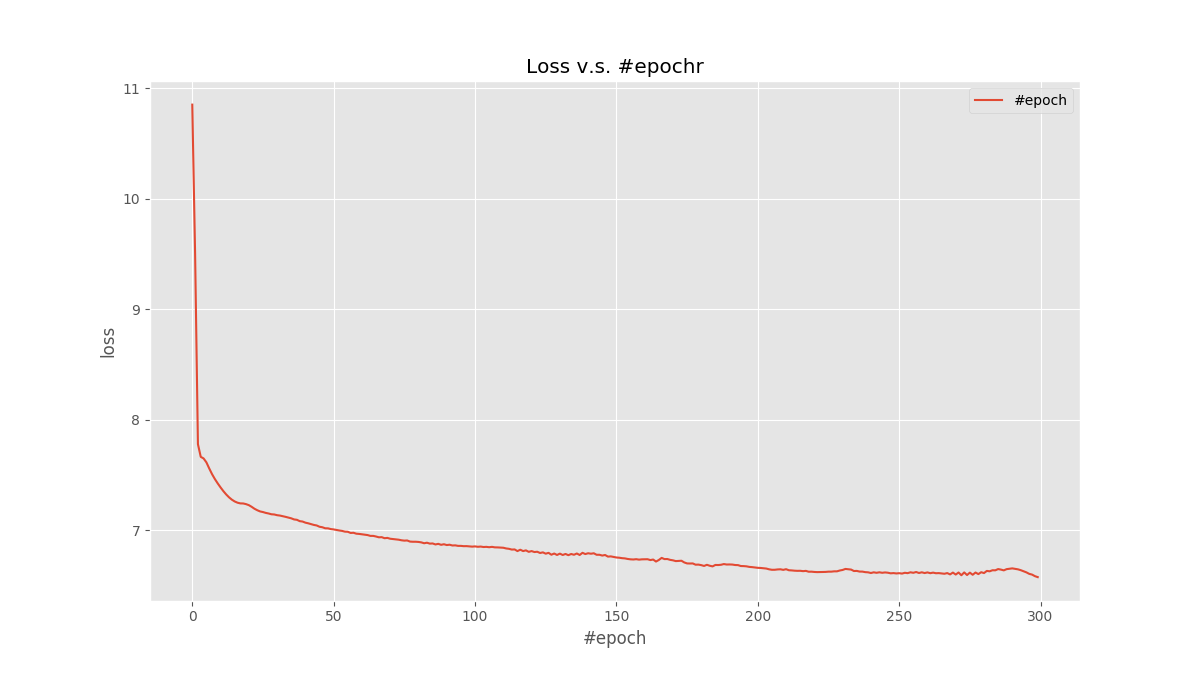
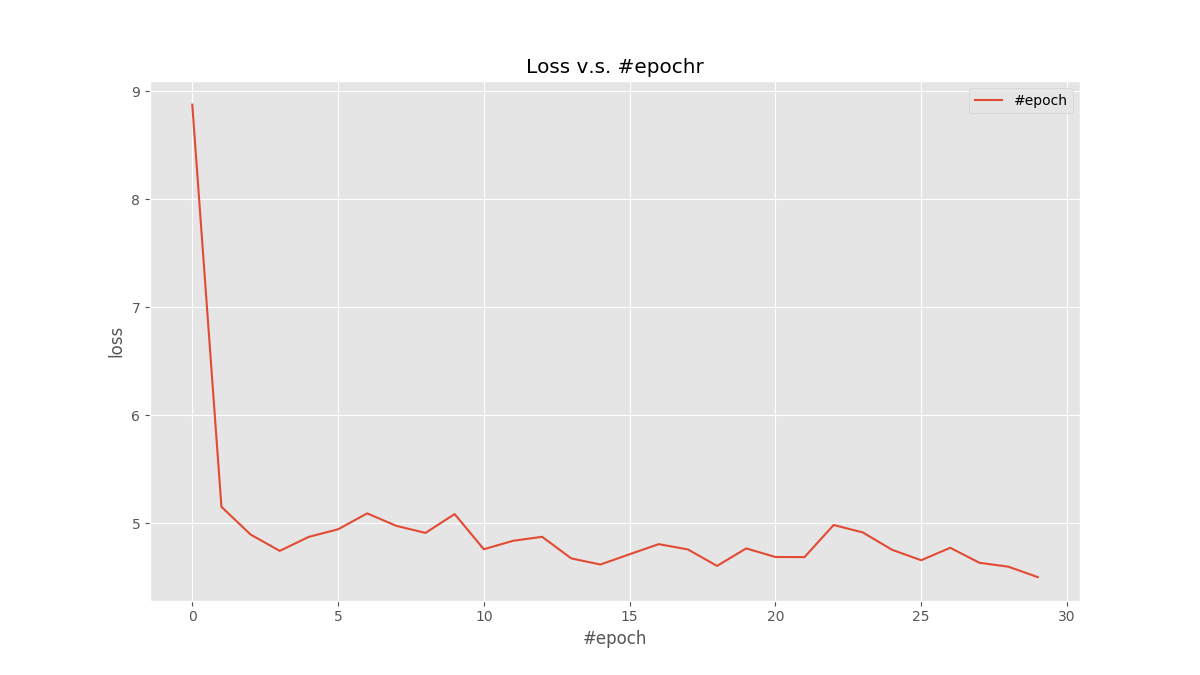
with rbm pretraining seems work

diff --git a/rbm.py b/rbm.py
@@ -1,0 +1,185 @@
+"""
+PyTorch implementation of all (Bernoulli, Gaussian hid, Gaussian vis+hid) kinds of RBMs.
+
+(C) Kai Xu
+University of Edinburgh, 2017
+"""
+
+
+import torch
+import torch.nn.functional as F
+
+
+class RBMBase:
+
+    def __init__(self, vis_num, hid_num):
+        """
+        Initialization for base RBM.
+        """
+        
+        self.vis_num = vis_num
+        self.hid_num = hid_num
+
+        # Dictionary for storing parameters
+        self.params = dict()
+
+        self.w = torch.randn(vis_num, hid_num) * 0.1    # weight matrix
+        self.a = torch.zeros(vis_num) / vis_num         # bias for visiable units
+        self.b = torch.zeros(hid_num)                   # bias for hidden units
+
+        # Corresponding momentums; _v means velocity of
+        self.w_v = torch.zeros(vis_num, hid_num)
+        self.a_v = torch.zeros(vis_num)
+        self.b_v = torch.zeros(hid_num)
+
+        if torch.cuda.is_available():
+
+            gpu_id = torch.cuda.current_device()
+
+            self.w = self.w.cuda(gpu_id)
+            self.a = self.a.cuda(gpu_id)
+            self.b = self.b.cuda(gpu_id)
+            self.w_v = self.w_v.cuda(gpu_id)
+            self.a_v = self.a_v.cuda(gpu_id)
+            self.b_v = self.b_v.cuda(gpu_id)
+
+            self.has_gpu = True
+            self.gpu_id = gpu_id
+
+        else:
+
+            self.has_gpu = False
+            
+    def p_h_given_v(self, v):
+        """
+        Compute probability of hidden units given visible units.
+        """
+
+        raise NotImplementedError()
+
+    def sample_h_given_v(self, v):
+        """
+        Sample hidden units given visible units.
+        """
+
+        raise NotImplementedError()
+
+    def p_v_given_h(self, h):
+        """
+        Compute probability of visible units given hidden units.
+        """
+
+        raise NotImplementedError()
+
+    def cd(self, v_data, k, eta, alpha, lam):
+        """
+        Perform contrastive divergence with k stpes, i.e. CD_k.
+
+        @input
+
+            v_data: visible data
+                 k: MCMC step number
+               eta: learning rate
+             alpha: momentum coefficient
+               lam: weight decay rate
+
+        @return
+
+            error: reconstruction error
+        """
+        if self.has_gpu:
+            v_data = v_data.cuda(self.gpu_id)
+
+        # Positive phase
+        h_pos, h_prob_pos = self.sample_h_given_v(v_data)
+        
+        # Negative phase
+        h_neg = h_pos.clone()
+
+        for _ in range(k):
+
+            v_prob_neg = self.p_v_given_h(h_neg)
+            h_neg, h_prob_neg = self.sample_h_given_v(v_prob_neg)
+
+        # Compute statistics
+        stats_pos = torch.matmul(v_data.t(), h_prob_pos)
+        stats_neg = torch.matmul(v_prob_neg.t(), h_prob_neg)
+
+        # Compute gradients
+        batch_size = v_data.size()[0]
+        w_grad = (stats_pos - stats_neg) / batch_size
+        a_grad = torch.sum(v_data - v_prob_neg, 0) / batch_size
+        b_grad = torch.sum(h_prob_pos - h_prob_neg, 0) / batch_size
+
+        # Update momentums
+        self.w_v = alpha * self.w_v + eta * (w_grad - lam * self.w)
+        self.a_v = alpha * self.a_v + eta * a_grad
+        self.b_v = alpha * self.b_v + eta * b_grad
+
+        # Update parameters
+        self.w = self.w + self.w_v
+        self.a = self.a + self.a_v
+        self.b = self.b + self.b_v
+
+        # Compute reconstruction error
+        error = F.mse_loss(v_data, v_prob_neg, size_average=False)
+
+        return error
+
+
+class RBMBer(RBMBase):
+
+    def __init__(self, vis_num, hid_num):
+
+        RBMBase.__init__(self, vis_num, hid_num)
+
+    def p_h_given_v(self, v):
+
+        return torch.sigmoid(torch.matmul(v, self.w) + self.b)
+
+    def sample_h_given_v(self, v):
+
+        h_prob = self.p_h_given_v(v)
+
+        r = torch.rand(self.hid_num)
+        if self.has_gpu:
+            r = r.cuda(self.gpu_id)
+
+        return (h_prob > r).float(), h_prob
+
+    def p_v_given_h(self, h):
+
+        return torch.sigmoid(torch.matmul(h, self.w.t()) + self.a)
+
+    def cd(self, v_data, k=1, eta=0.02, alpha=0.9, lam=0.0):
+
+        return RBMBase.cd(self, v_data, k, eta, alpha, lam)
+
+
+class RBMGaussHid(RBMBase):
+
+    def __init__(self, vis_num, hid_num):
+
+        RBMBase.__init__(self, vis_num, hid_num)
+
+    def p_h_given_v(self, v):
+
+        return torch.matmul(v, self.w) + self.b
+
+    def sample_h_given_v(self, v):
+
+        h_prob = self.p_h_given_v(v)
+
+        r = torch.randn(h_prob.size())
+        if self.has_gpu:
+            r = r.cuda(self.gpu_id)
+
+        return (h_prob + r), h_prob
+
+    def p_v_given_h(self, h):
+
+        return torch.sigmoid(torch.matmul(h, self.w.t()) + self.a)
+
+    def cd(self, v_data, k=1, eta=0.001, alpha=0.5, lam=0.0002):
+
+        return RBMBase.cd(self, v_data, k, eta, alpha, lam)

diff --git a/tsne.py b/tsne.py
@@ -13,6 +13,7 @@ from torch.autograd import Variable
 import torch.nn as nn
 
 from helper import *
+from rbm import *
 
 def preprocess_img(xs):
 
@@ -74,7 +75,7 @@ class ptSNE:
 
         x_num, x_dim = xs.size()
         
-        batches = map(lambda s: (s, s + batch_size) if s + batch_size <= x_num else x_num,
+        batches = map(lambda s: (s, s + batch_size) if s + batch_size <= x_num else (s, x_num),
             torch.arange(0, x_num, batch_size).int())
         batch_num = len(batches)
 
@@ -126,6 +127,122 @@ class ptSNE:
         
         fig = make_cost_plot(log["cost"])
         fig.savefig("cost.png")
+
+    def pre_train(self, xs, batch_size, epoch_num):
+
+        x_num, _ = xs.size()
+
+        # Create batch idcs
+        batches = map(lambda s: (s, s + batch_size) if s + batch_size <= x_num else (s, x_num),
+            torch.arange(0, x_num, batch_size).int())
+        batch_num = len(batches)
+        log_skip = int(batch_num / 10)
+
+        # Send xs to GPU
+        xs = xs.cuda()
+
+        # First RBM
+        rbm_1 = RBMBer(784, 500)
+
+        alpha = 0.5
+        for epoch in range(epoch_num):
+
+            if epoch > 5:
+                alpha = 0.9
+
+            print("#sweep, #iter, error")
+
+            for i, (batch_s, batch_e) in enumerate(batches, 1):
+
+                this_batch_size = batch_e - batch_s
+
+                x = xs[batch_s:batch_e, :]
+
+                error = rbm_1.cd(x, eta=0.1, alpha=alpha, lam=0.0002).data[0]
+
+                if i % log_skip == 0:
+                    print("%6d, %5d, %.3f" %
+                        (epoch + 1, i, error / this_batch_size))
+
+        h_1 = (rbm_1.p_h_given_v(xs) >= 0.5).float()
+
+        rbm_2 = RBMBer(500, 500)
+
+        alpha = 0.5
+        for epoch in range(epoch_num):
+
+            if epoch > 5:
+                alpha = 0.9
+
+            print("#sweep, #iter, error")
+
+            for i, (batch_s, batch_e) in enumerate(batches, 1):
+
+                this_batch_size = batch_e - batch_s
+
+                x = h_1[batch_s:batch_e, :]
+
+                error = rbm_2.cd(x, eta=0.1, alpha=alpha, lam=0.0002).data[0]
+
+                if i % log_skip == 0:
+                    print("%6d, %5d, %.3f" %
+                        (epoch + 1, i, error / this_batch_size))
+
+        h_2 = (rbm_2.p_h_given_v(h_1) >= 0.5).float()
+
+        rbm_3 = RBMBer(500, 2000)
+
+        alpha = 0.5
+        for epoch in range(epoch_num):
+
+            if epoch > 5:
+                alpha = 0.9
+
+            print("#sweep, #iter, error")
+
+            for i, (batch_s, batch_e) in enumerate(batches, 1):
+
+                this_batch_size = batch_e - batch_s
+
+                x = h_2[batch_s:batch_e, :]
+
+                error = rbm_3.cd(x, eta=0.1, alpha=alpha, lam=0.0002).data[0]
+
+                if i % log_skip == 0:
+                    print("%6d, %5d, %.3f" %
+                        (epoch + 1, i, error / this_batch_size))
+
+        h_3 = (rbm_3.p_h_given_v(h_2) >= 0.5).float()
+
+        rbm_4 = RBMGaussHid(2000, 2)
+
+        alpha = 0.5
+        for epoch in range(epoch_num):
+
+            if epoch > 5:
+                alpha = 0.9
+
+            print("#sweep, #iter, error")
+
+            for i, (batch_s, batch_e) in enumerate(batches, 1):
+
+                this_batch_size = batch_e - batch_s
+
+                x = h_3[batch_s:batch_e, :]
+
+                error = rbm_4.cd(x, eta=0.001, alpha=alpha, lam=0.0002).data[0]
+
+                if i % log_skip == 0:
+                    print("%6d, %5d, %.3f" %
+                        (epoch + 1, i, error / this_batch_size))
+
+        state_dict = self.encoder.state_dict()
+
+        state_dict["1.weight"] = rbm_1.w
+        state_dict["2.weight"] = rbm_2.w
+        state_dict["3.weight"] = rbm_3.w
+        state_dict["4.weight"] = rbm_4.w
+
 
     def apply(self, xs):
         

diff --git a/test.py b/test.py
@@ -53,7 +53,8 @@ encoder = nn.Sequential(
 
 ptsne = ptSNE(encoder)
 
-ptsne.train(xs, 200, 300, 1e-3, 20)
+ptsne.pre_train(xs, 300, 50)
+ptsne.train(xs, 300, 30, 2e-2, 20)
 
 xs_2d = ptsne.apply(xs)
 
